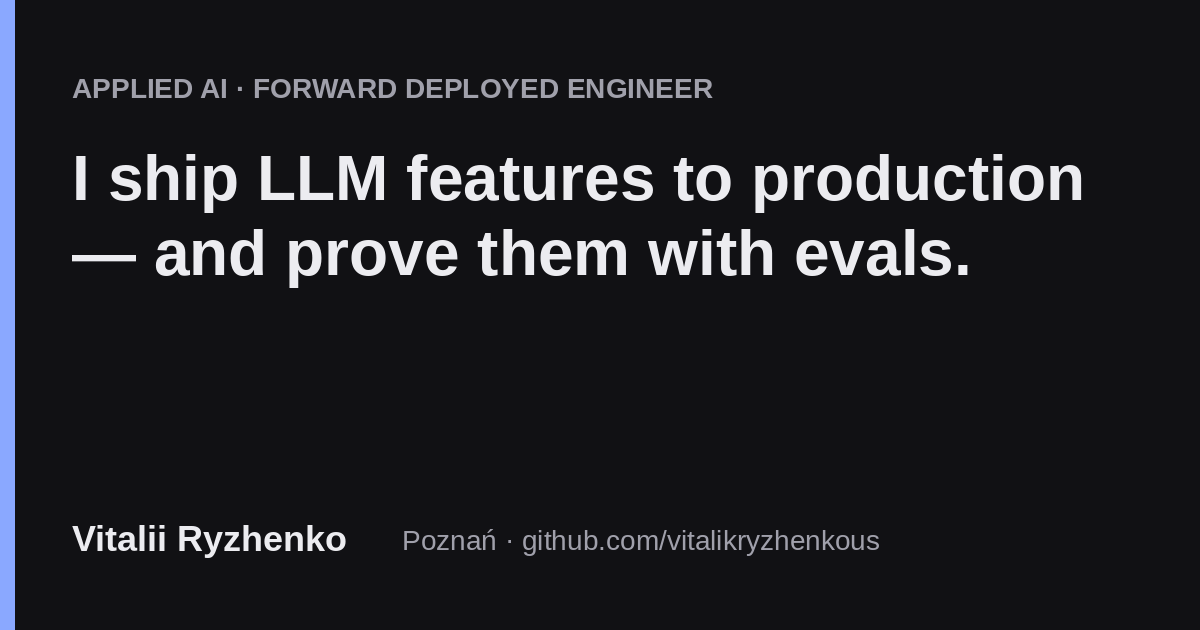
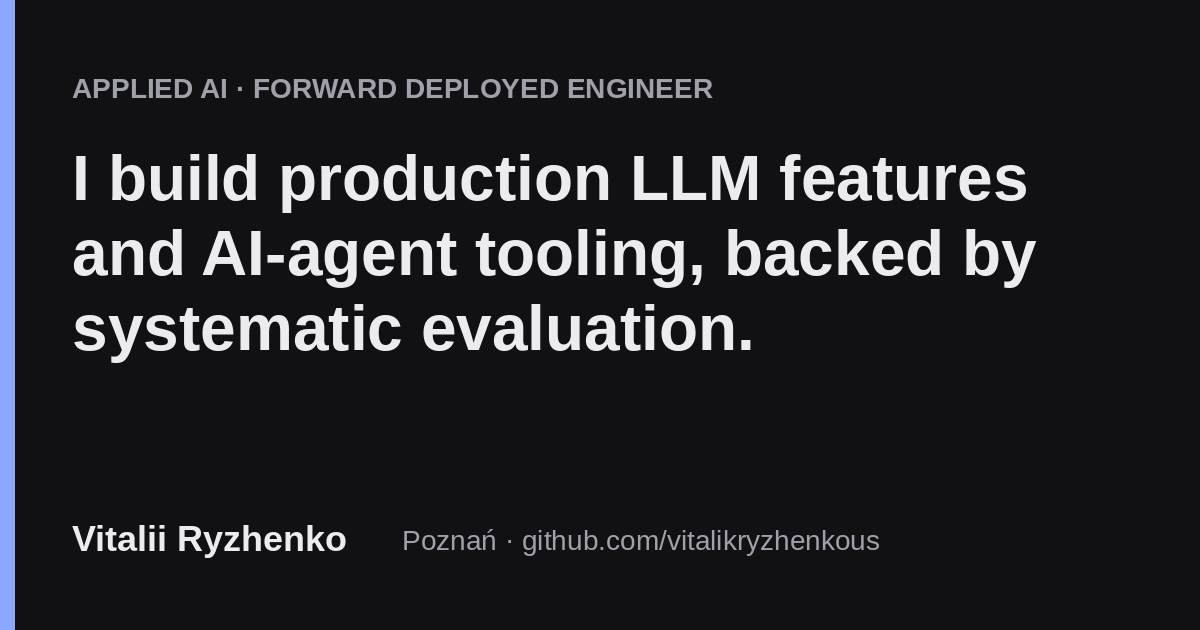
Interview Gym: checks gate the Docker build (#16)
* content: Interview Gym — content checks gate the Docker build (interview-gym#5 merged)

* content: calmer headline — 'I build production LLM features and AI-agent tooling, backed by systematic evaluation.'

* content: certification links; graph — projects run on the platform, not 'services'

- all 8 Anthropic Academy badges linked (mapping from the owner)
- the right-hand column is 'Projects (run on the platform)'; project cards say what they use
  (tailnet, /make, checks, hooks); how-i-work text says projects, not services

---------

diff --git a/src/components/PlatformGraph.tsx b/src/components/PlatformGraph.tsx
@@ -120,7 +120,7 @@ function activeFor(id: string): Active | null {
     return { label: n.label, where: `${layerLabel(n.layer)} · ${STATUS_LABEL[n.status] ?? n.status}${part}`, card: n.card };
   }
   const g = graph.groups.find((x) => x.id === id);
-  return g ? { label: g.label, where: `${layerLabel('services')} · project`, card: g.card } : null;
+  return g ? { label: g.label, where: layerLabel('services'), card: g.card } : null;
 }
 const edgeTypes = { flow: FlowEdge };
 
